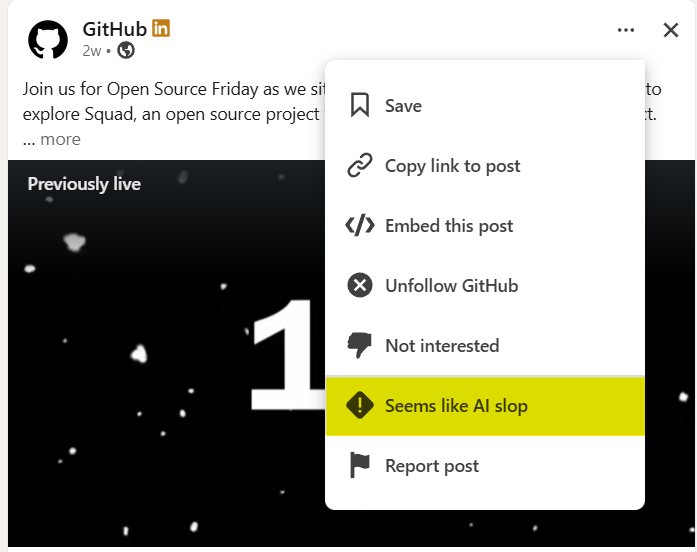
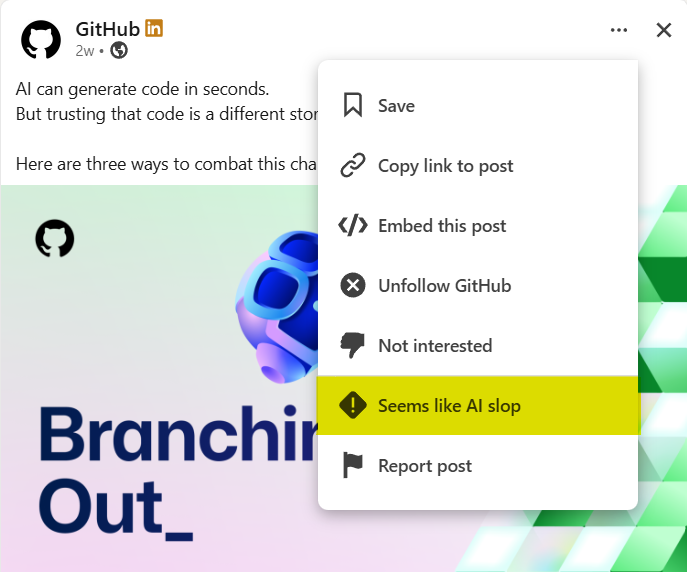
table of contents defaults

diff --git a/docs/_posts/2026-08-08-write-for-humans.md b/docs/_posts/2026-08-08-write-for-humans.md
@@ -1,8 +1,9 @@
 ---
 title: "Why Should I Bother To Read Something You Didn't Bother To Write?"
 excerpt: "AI has its uses, but if you couldn't be bothered to write something, why should anyone bother to read it?"
-last_modified_at: 2026-08-08T22:59:59
+last_modified_at: 2026-08-09T13:30:55
 toc: true
+toc_label: "On This Page"
 toc_icon: "pen"
 toc_sticky: true
 header:

diff --git a/docs/_pages/ai-transparency.md b/docs/_pages/ai-transparency.md
@@ -4,6 +4,7 @@ excerpt: "How I use AI as an editor without outsourcing my writing."
 layout: single
 toc: true
 toc_icon: "robot"
+toc_label: "On This Page"
 toc_sticky: true
 author_profile: true
 permalink: /ai-transparency/
